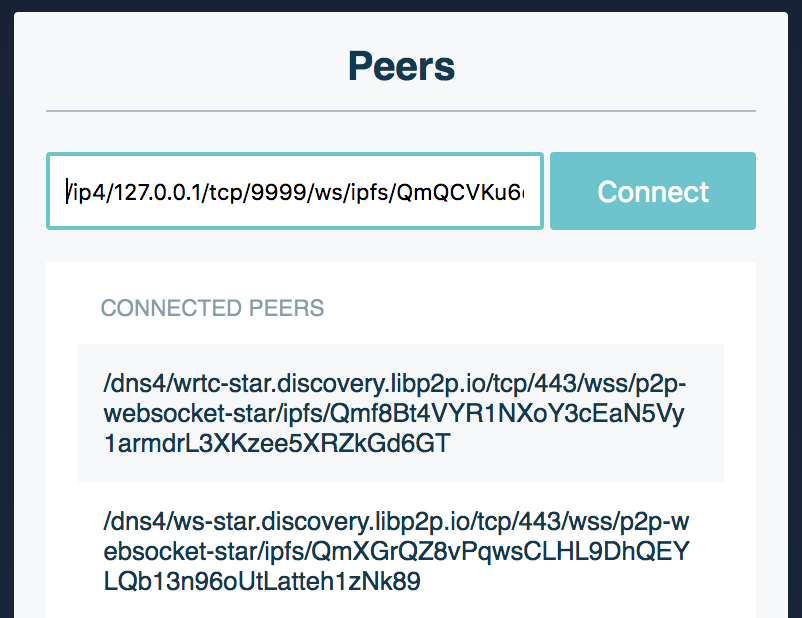
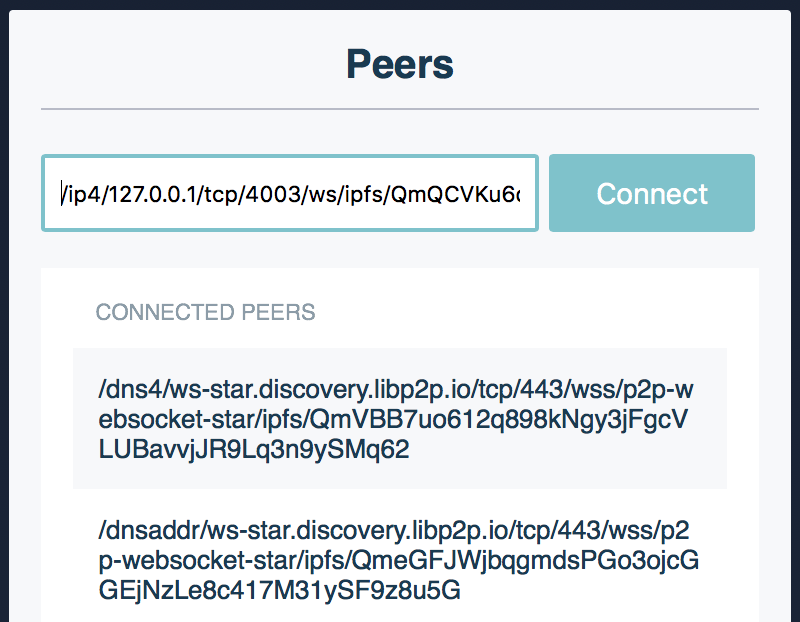
docs: fix ws port example, static refs in exchange files in browser (#1968)
* chore: fix ws port in exchange files in browser README

* fix: exchange files in browser example - use static type

* fix: exchange files in browser - update ws port

* chore: exchange files in browser - update screenshot

diff --git a/exchange-files-in-browser/public/app.js b/exchange-files-in-browser/public/app.js
@@ -31,7 +31,7 @@ let fileSize = 0
 
 let node
 let info
-let Buffer
+let Buffer = IPFS.Buffer
 
 /* ===========================================================================
    Start the IPFS node
@@ -52,8 +52,6 @@ function start () {
     }
 
     node = new IPFS(options)
-
-    Buffer = node.types.Buffer
 
     node.once('start', () => {
       node.id()

diff --git a/exchange-files-in-browser/README.md b/exchange-files-in-browser/README.md
@@ -85,13 +85,13 @@ Since websockets support is currently not on by default, you'll need to add a We
 }
 ```
 
-Add the `/ip4/127.0.0.1/tcp/9999/ws` entry to your `Swarm` array. Now it should look like this:
+Add the `/ip4/127.0.0.1/tcp/4003/ws` entry to your `Swarm` array. Now it should look like this:
 
 ```json
 "Addresses": {
   "Swarm": [
     "/ip4/0.0.0.0/tcp/4002",
-    "/ip4/127.0.0.1/tcp/9999/ws"
+    "/ip4/127.0.0.1/tcp/4003/ws"
   ],
   "API": "/ip4/127.0.0.1/tcp/5002",
   "Gateway": "/ip4/127.0.0.1/tcp/9090"
@@ -111,9 +111,9 @@ You should see the Websocket address in the output:
 ```sh
 Initializing daemon...
 Swarm listening on /ip4/127.0.0.1/tcp/4001
-Swarm listening on /ip4/127.0.0.1/tcp/9999/ws
+Swarm listening on /ip4/127.0.0.1/tcp/4003/ws
 Swarm listening on /ip4/192.168.10.38/tcp/4001
-Swarm listening on /ip4/192.168.10.38/tcp/9999/ws
+Swarm listening on /ip4/192.168.10.38/tcp/4003/ws
 API server listening on /ip4/127.0.0.1/tcp/5001
 Gateway (readonly) server listening on /ip4/0.0.0.0/tcp/8080
 Daemon is ready
@@ -165,7 +165,7 @@ Open another terminal window to find the websocket addresses that it is listenin
 > jsipfs id
 ```
 
-It should look like this: `/ip4/127.0.0.1/tcp/9999/ws/ipfs/<your_peer_id>`.
+It should look like this: `/ip4/127.0.0.1/tcp/4003/ws/ipfs/<your_peer_id>`.
 
 Copy and paste the *multiaddr* to connect to that peer:
 
